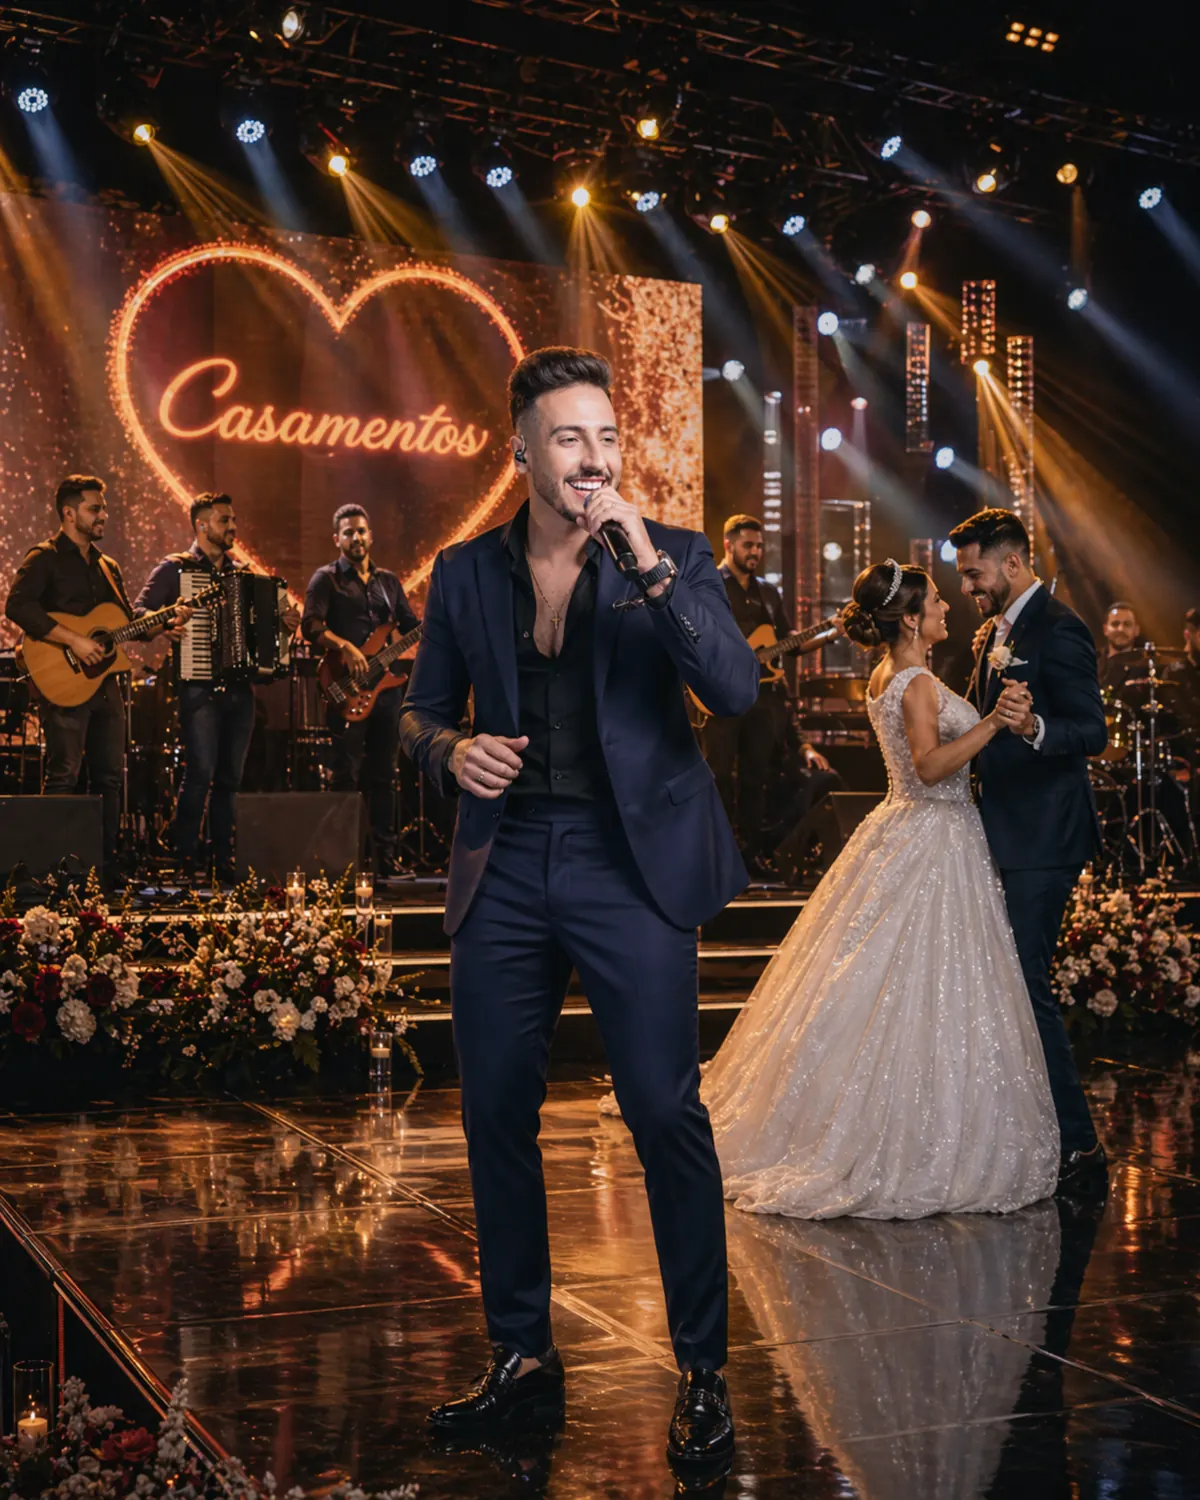
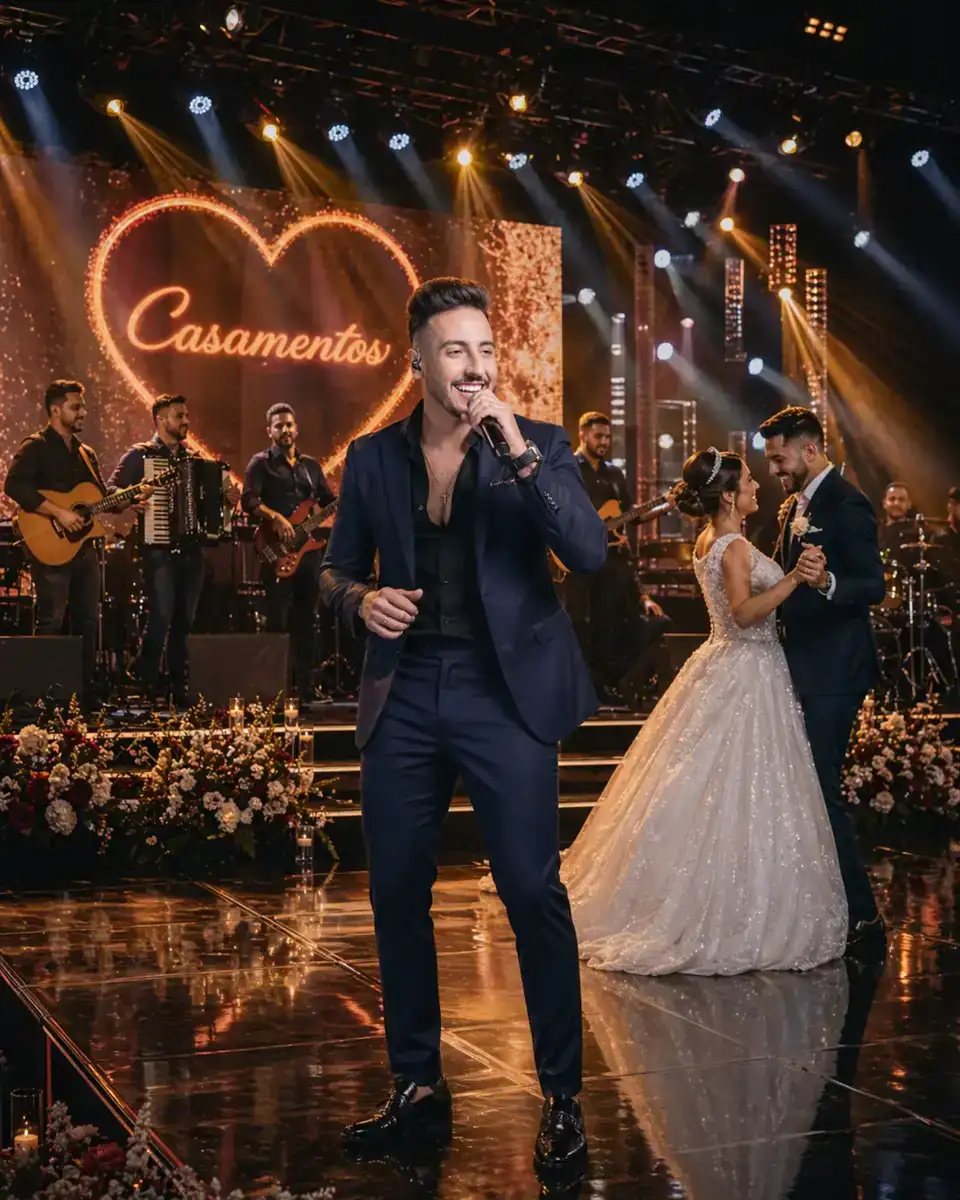
Add files via upload

Changed region(s): [[0.25, 0.5858, 0.2812, 0.6167]]

diff --git a/index.html b/index.html
@@ -1,12 +1,22 @@
 <!DOCTYPE html>
 <html lang="pt-BR">
 <head>
-<!-- Google Tag Manager -->
-<script>(function(w,d,s,l,i){w[l]=w[l]||[];w[l].push({'gtm.start':
-new Date().getTime(),event:'gtm.js'});var f=d.getElementsByTagName(s)[0],
-j=d.createElement(s),dl=l!='dataLayer'?'&l='+l:'';j.async=true;j.src=
-'https://www.googletagmanager.com/gtm.js?id='+i+dl;f.parentNode.insertBefore(j,f);
-})(window,document,'script','dataLayer','GTM-5Z8QFW5B');</script>
+<!-- Google Tag Manager: carregamento otimizado -->
+<script>
+window.dataLayer = window.dataLayer || [];
+window.dataLayer.push({'gtm.start': new Date().getTime(), event: 'gtm.js'});
+(function(w,d,s,l,i){
+  var loaded=false;
+  function loadGTM(){
+    if(loaded) return; loaded=true;
+    var f=d.getElementsByTagName(s)[0], j=d.createElement(s), dl=l!='dataLayer'?'&l='+l:'';
+    j.async=true; j.src='https://www.googletagmanager.com/gtm.js?id='+i+dl;
+    f.parentNode.insertBefore(j,f);
+  }
+  w.addEventListener('load', function(){ setTimeout(loadGTM, 1200); }, {once:true});
+  w.__loadGTMNow = loadGTM;
+})(window,document,'script','dataLayer','GTM-5Z8QFW5B');
+</script>
 <!-- End Google Tag Manager -->
 
   <meta charset="UTF-8" />
@@ -29,9 +39,11 @@ j=d.createElement(s),dl=l!='dataLayer'?'&l='+l:'';j.async=true;j.src=
   <link rel="icon" type="image/webp" href="./assets/images/gabriel-studio-02.webp" />
   <link rel="preconnect" href="https://fonts.googleapis.com" />
   <link rel="preconnect" href="https://fonts.gstatic.com" crossorigin />
-  <link href="https://fonts.googleapis.com/css2?family=Cormorant+Garamond:ital,wght@0,300;0,400;0,500;0,600;0,700;1,300;1,400&family=Inter:wght@300;400;500;600;700&display=swap" rel="stylesheet" />
-  <link rel="stylesheet" href="./src/styles/main.css?v=20260430-10" />
-  <link rel="stylesheet" href="./src/styles/youtube-inline-gallery.css?v=20260430-10" />
+  <link rel="preload" as="style" href="https://fonts.googleapis.com/css2?family=Cormorant+Garamond:ital,wght@0,300;0,400;0,500;0,600;0,700;1,300;1,400&family=Inter:wght@300;400;500;600;700&display=swap" onload="this.onload=null;this.rel='stylesheet'" />
+  <noscript><link href="https://fonts.googleapis.com/css2?family=Cormorant+Garamond:ital,wght@0,300;0,400;0,500;0,600;0,700;1,300;1,400&family=Inter:wght@300;400;500;600;700&display=swap" rel="stylesheet" /></noscript>
+  <link rel="stylesheet" href="./src/styles/main.css?v=20260501-2" />
+  <link rel="preload" as="style" href="./src/styles/youtube-inline-gallery.css?v=20260501-2" onload="this.onload=null;this.rel='stylesheet'" />
+  <noscript><link rel="stylesheet" href="./src/styles/youtube-inline-gallery.css?v=20260501-2" /></noscript>
 
   <style>
     .views-highlight {padding: 30px 30px 26px !important;}
@@ -774,7 +786,7 @@ j=d.createElement(s),dl=l!='dataLayer'?'&l='+l:'';j.async=true;j.src=
   }
 }
 </script>
-<link rel="preload" as="image" href="/assets/images/gabriel-hero.webp" fetchpriority="high" type="image/webp">
+<link rel="preload" as="image" href="/assets/images/casamento-palco-correto.webp" fetchpriority="high" type="image/webp">
 <link rel="canonical" href="https://gabrielgadelhacantor.com/" />
 </head>
 <body>
@@ -784,6 +796,7 @@ height="0" width="0" style="display:none;visibility:hidden"></iframe></noscript>
 <!-- End Google Tag Manager (noscript) -->
 
   <header class="site-header" id="siteHeader"><div class="container header-inner"><a href="#top" class="brand" aria-label="Gabriel Gadelha — início"><span class="brand-mark">GG</span><span class="brand-name">Gabriel Gadelha</span></a><nav class="nav" aria-label="Principal"><a href="#experiencia">Vídeos</a><a href="#sobre">Sobre</a><a href="#pacotes">Pacotes</a><a href="#faq">FAQ</a></nav><a class="btn btn-ghost header-cta btn-whatsapp" data-pacote="header" href="https://wa.me/5519993941536?text=Ol%C3%A1%2C%20gostaria%20de%20pedir%20or%C3%A7amento%20para%20show%20de%20casamento%20com%20Gabriel%20Gadelha.%20Data%20do%20evento%3A%20___%20%2F%20Cidade%3A%20___%20%2F%20Local%3A%20___%20%2F%20Convidados%3A%20___" target="_blank" rel="noopener"><svg class="icon-wa" viewBox="0 0 24 24" aria-hidden="true"><path fill="currentColor" d="M12.04 2a9.93 9.93 0 0 0-8.58 14.9L2 22l5.23-1.37A9.93 9.93 0 1 0 12.04 2m0 1.82a8.11 8.11 0 0 1 6.95 12.36l-.21.33.8 2.92-3-.78-.32.19a8.1 8.1 0 0 1-12.33-6.93a8.12 8.12 0 0 1 8.11-8.09m-4.4 4.37c-.2 0-.52.07-.8.38s-1.05 1.02-1.05 2.5s1.07 2.89 1.22 3.1c.15.2 2.07 3.31 5.12 4.51c2.54 1 3.05.8 3.6.75c.56-.05 1.78-.73 2.03-1.43c.25-.7.25-1.3.17-1.43c-.07-.12-.27-.2-.57-.35c-.3-.15-1.78-.88-2.05-.98c-.27-.1-.48-.15-.68.15c-.2.3-.78.98-.95 1.18c-.17.2-.35.22-.65.08c-.3-.15-1.26-.46-2.4-1.48c-.89-.79-1.49-1.77-1.66-2.07c-.17-.3-.02-.46.13-.61c.13-.13.3-.35.44-.52c.15-.18.2-.3.3-.5c.1-.2.05-.37-.03-.52c-.07-.15-.68-1.64-.94-2.24c-.22-.5-.45-.44-.62-.45z"/></svg><span>Orçamento</span></a><button class="hamburger" id="hamburger" aria-label="Menu" aria-expanded="false"><span></span><span></span><span></span></button></div><div class="mobile-menu" id="mobileMenu" aria-hidden="true"><a href="#experiencia">Vídeos</a><a href="#sobre">Sobre</a><a href="#pacotes">Pacotes</a><a href="#faq">FAQ</a><a class="btn btn-primary btn-whatsapp" data-pacote="header-mobile" href="https://wa.me/5519993941536?text=Ol%C3%A1%2C%20gostaria%20de%20pedir%20or%C3%A7amento%20para%20show%20de%20casamento%20com%20Gabriel%20Gadelha.%20Data%20do%20evento%3A%20___%20%2F%20Cidade%3A%20___%20%2F%20Local%3A%20___%20%2F%20Convidados%3A%20___" target="_blank" rel="noopener">Pedir Orçamento</a></div></header>
+  <main id="conteudo-principal">
   <section class="hero" id="top">
   <div class="hero-bg" aria-hidden="true">
     <div class="hero-grain"></div>
@@ -848,8 +861,8 @@ height="0" width="0" style="display:none;visibility:hidden"></iframe></noscript>
             class="hero-video-placeholder"
             src="/assets/images/casamento-palco-correto.webp"
             alt="Gabriel Gadelha ao vivo em show"
-            width="840"
-            height="1456"
+            width="960"
+            height="1200"
             loading="eager"
             decoding="async"
             fetchpriority="high"
@@ -875,6 +888,7 @@ height="0" width="0" style="display:none;visibility:hidden"></iframe></noscript>
 <h2 class="section-title"><span class="italic serif">Respostas para quem está</span><br /><span class="display">pesquisando show para casamento</span></h2></header><div class="faq-grid"><article class="faq-card reveal"><h3>Quanto custa contratar cantor para casamento?</h3><p>O valor depende da data, cidade, estrutura do evento e formato escolhido. O orçamento é personalizado para que a proposta faça sentido para o perfil do casamento.</p></article><article class="faq-card reveal"><h3>Gabriel Gadelha faz show para casamento em Campinas?</h3><p>Sim. O atendimento contempla Campinas, interior de São Paulo e outras regiões, conforme disponibilidade e logística do evento.</p></article><article class="faq-card reveal"><h3>Existe show sertanejo para mini wedding?</h3><p>Sim. O formato Pocket atende muito bem mini weddings, recepções menores e eventos mais intimistas.</p></article><article class="faq-card reveal"><h3>O show para casamento pode ser personalizado?</h3><p>Sim. O repertório pode ser alinhado com o perfil dos noivos e com o clima desejado para a celebração.</p></article><article class="faq-card reveal"><h3>Qual a duração do show?</h3><p>Os formatos de show são planejados com 2 horas de apresentação.</p></article><article class="faq-card reveal"><h3>Como pedir orçamento para casamento?</h3><p>Basta chamar no WhatsApp e enviar data, cidade, local e número aproximado de convidados.</p></article></div></div></section>
   <section class="section cta-final" id="contato"><div class="container cta-grid"><div class="cta-content reveal">
 <h2 class="section-title"><span class="italic serif">Peça orçamento para</span><br /><span class="display">o seu casamento</span></h2><p class="cta-text">Envie sua data pelo WhatsApp e receba atendimento personalizado para entender disponibilidade, formato ideal e proposta para o seu evento.</p><div class="cta-info"><div class="cta-info-row"><span class="label">WhatsApp</span><a class="btn-whatsapp" data-pacote="cta-telefone" href="https://wa.me/5519993941536?text=Ol%C3%A1%2C%20gostaria%20de%20pedir%20or%C3%A7amento%20para%20show%20de%20casamento%20com%20Gabriel%20Gadelha.%20Data%20do%20evento%3A%20___%20%2F%20Cidade%3A%20___%20%2F%20Local%3A%20___%20%2F%20Convidados%3A%20___" target="_blank" rel="noopener">+55 19 99394-1536</a></div><div class="cta-info-row"><span class="label">Instagram</span></div><div class="cta-info-row"><span class="label">Atendimento</span><span>Campinas, interior de SP e outras regiões</span></div></div><a class="btn btn-primary btn-lg btn-whatsapp" data-pacote="cta-final" href="https://wa.me/5519993941536?text=Ol%C3%A1%2C%20gostaria%20de%20pedir%20or%C3%A7amento%20para%20show%20de%20casamento%20com%20Gabriel%20Gadelha.%20Data%20do%20evento%3A%20___%20%2F%20Cidade%3A%20___%20%2F%20Local%3A%20___%20%2F%20Convidados%3A%20___" target="_blank" rel="noopener">Chamar no WhatsApp</a></div></div></section>
+  </main>
   <footer class="site-footer"><div class="container footer-inner"><div class="footer-brand"><span class="brand-mark">GG</span><span class="serif italic">Gabriel Gadelha</span></div>
 <p class="footer-copy">© <span id="yearNow">2026</span> Gabriel Gadelha — Todos os direitos reservados. <a href="/privacidade.html" style="color:inherit;text-decoration:underline;">Política de Privacidade</a></p></div></footer>
   <a class="whatsapp-float btn-whatsapp" data-pacote="flutuante" href="https://wa.me/5519993941536?text=Ol%C3%A1%2C%20gostaria%20de%20pedir%20or%C3%A7amento%20para%20show%20de%20casamento%20com%20Gabriel%20Gadelha.%20Data%20do%20evento%3A%20___%20%2F%20Cidade%3A%20___%20%2F%20Local%3A%20___%20%2F%20Convidados%3A%20___" target="_blank" rel="noopener" aria-label="Falar no WhatsApp"><svg viewBox="0 0 24 24" aria-hidden="true"><path fill="currentColor" d="M12.04 2a9.93 9.93 0 0 0-8.58 14.9L2 22l5.23-1.37A9.93 9.93 0 1 0 12.04 2m0 1.82a8.11 8.11 0 0 1 6.95 12.36l-.21.33.8 2.92-3-.78-.32.19a8.1 8.1 0 0 1-12.33-6.93a8.12 8.12 0 0 1 8.11-8.09m-4.4 4.37c-.2 0-.52.07-.8.38s-1.05 1.02-1.05 2.5s1.07 2.89 1.22 3.1c.15.2 2.07 3.31 5.12 4.51c2.54 1 3.05.8 3.6.75c.56-.05 1.78-.73 2.03-1.43c.25-.7.25-1.3.17-1.43c-.07-.12-.27-.2-.57-.35c-.3-.15-1.78-.88-2.05-.98c-.27-.1-.48-.15-.68.15c-.2.3-.78.98-.95 1.18c-.17.2-.35.22-.65.08c-.3-.15-1.26-.46-2.4-1.48c-.89-.79-1.49-1.77-1.66-2.07c-.17-.3-.02-.46.13-.61c.13-.13.3-.35.44-.52c.15-.18.2-.3.3-.5c.1-.2.05-.37-.03-.52c-.07-.15-.68-1.64-.94-2.24c-.22-.5-.45-.44-.62-.45z"/></svg><span class="wa-pulse"></span></a>
@@ -1000,6 +1014,20 @@ height="0" width="0" style="display:none;visibility:hidden"></iframe></noscript>
         event.preventDefault();
         stopOtherPlayers(null, true);
         setHeroState(true);
+      });
+
+
+      // Rastreamento leve do WhatsApp antes do GTM carregar.
+      document.querySelectorAll('.btn-whatsapp[href*="wa.me"]').forEach((link) => {
+        link.addEventListener('click', () => {
+          window.dataLayer = window.dataLayer || [];
+          window.dataLayer.push({
+            event: 'clique_whatsapp',
+            pacote: link.dataset.pacote || '',
+            link_url: link.href
+          });
+          if (window.__loadGTMNow) window.__loadGTMNow();
+        }, { passive: true });
       });
 
       document.addEventListener('click', (event) => {

diff --git a/OTIMIZACAO-PAGESPEED-2026-05-01.md b/OTIMIZACAO-PAGESPEED-2026-05-01.md
@@ -1,0 +1,13 @@
+# Otimização PageSpeed — 01/05/2026
+
+Correções aplicadas para reduzir os alertas do PageSpeed:
+
+- Renderização bloqueante: Google Fonts e CSS da galeria do YouTube passam a carregar como preload assíncrono.
+- Imagens: removidas imagens antigas JPEG/PNG e mantidas versões WebP compactadas.
+- Hero/LCP: preload corrigido para a imagem realmente usada no hero (`casamento-palco-correto.webp`).
+- Cache: adicionadas regras de cache longo para `/src/*`, CSS e JS no `_headers` do Cloudflare.
+- JS não usado: GTM agora carrega de forma otimizada após o carregamento inicial; clique no WhatsApp empurra evento para o `dataLayer` e força o carregamento do GTM se necessário.
+- Acessibilidade: adicionado `<main id="conteudo-principal">`.
+
+GTM mantido: `GTM-5Z8QFW5B`.
+Evento mantido: `clique_whatsapp`.
